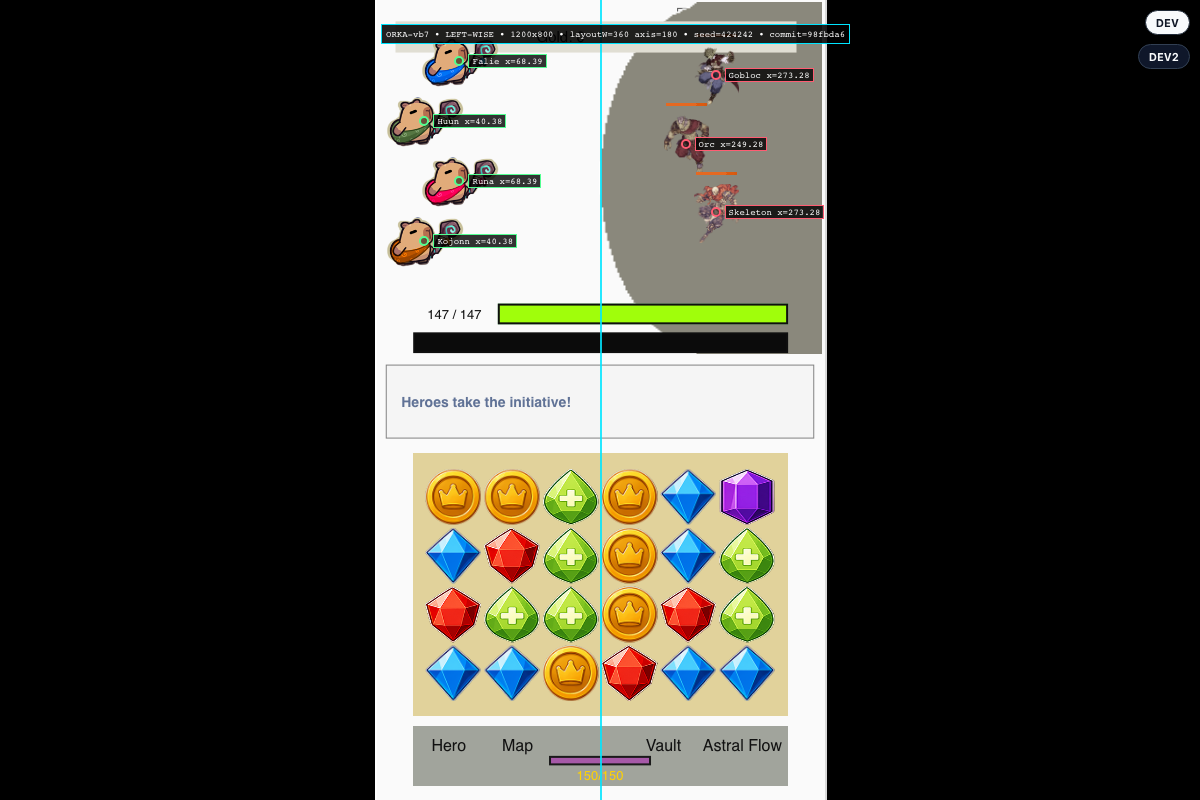
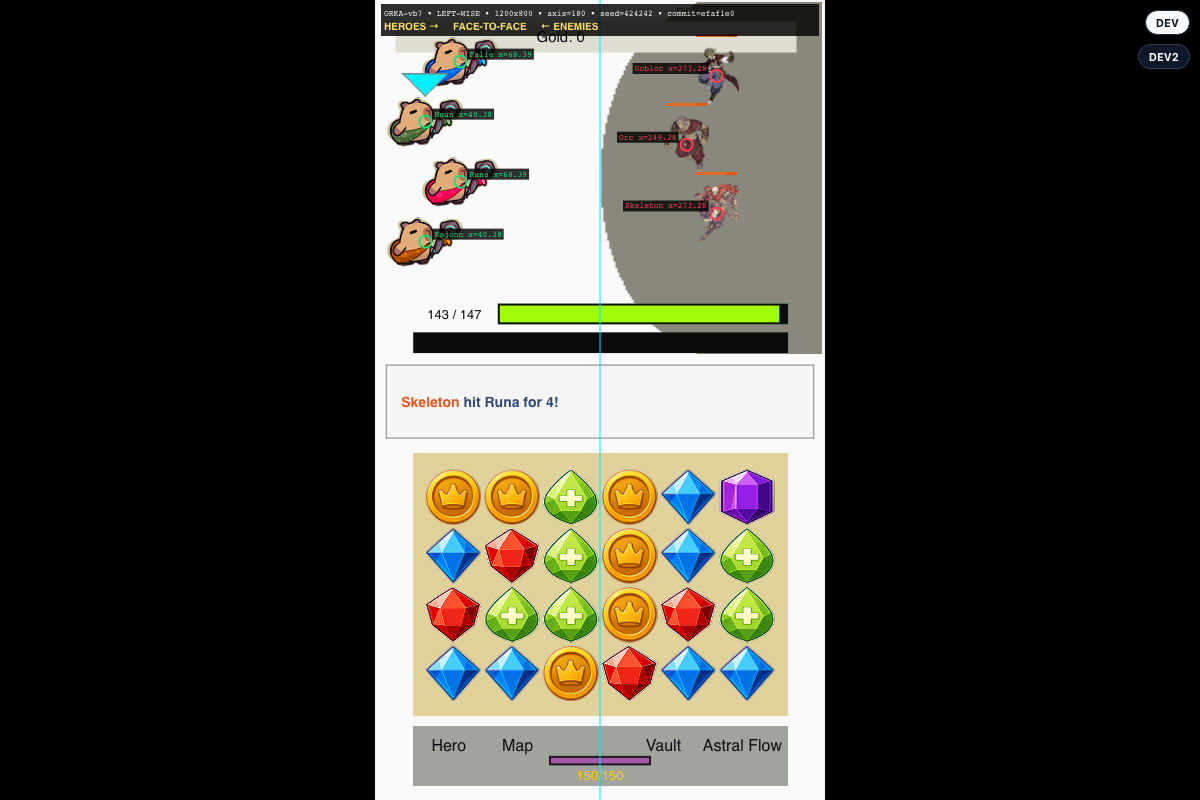
test(qa): refresh face-to-face combat proof
Replace stale back-to-back frames with exact-commit annotated screenshots at both accepted viewports.

Record inward facing, pivot reflection, image hashes, and zero page errors.

bd-ORKA-vb7

diff --git a/governance/qa/ORKA-vb7-combat-orientation/README.md b/governance/qa/ORKA-vb7-combat-orientation/README.md
@@ -1,6 +1,6 @@
 # ORKA-vb7 Combat Orientation Proof
 
-- Runtime commit: `98fbda6454454d6bcfc2760852997bf19c6e59e1`
+- Runtime commit: `efaf1e03688e9d7fafc353c46efaefcb5bb70e42`
 - Branch: `bead/ORKA-vb7-combat-orientation`
 - Seed: `424242`
 - Roster: Falie, Huun, Runa, Kojonn vs Gobloc, Orc, Skeleton
@@ -8,7 +8,9 @@
 - Browser viewports: `1200x800` and `900x700`
 - Browser page errors: none
 
-The cyan line marks the reflection axis. Green rings mark hero standing pivots; red rings mark enemy pivots. Each right-wise x equals `360 - left-wise x`; UID, kind, slot, y, HP, stats, initiative order, and board state remain equal.
+The cyan line marks the reflection axis. Green rings mark hero standing pivots; red rings mark enemy pivots. Yellow arrows annotate inward facing. Each right-wise x equals `360 - left-wise x`; UID, kind, slot, y, HP, stats, initiative order, and board state remain equal.
+
+The original right-wise QA frame exposed a presentation defect: reflected pivots moved directional/asymmetric art without reflecting its pixels, leaving teams back-to-back and silhouettes biased right. Commit `efaf1e0` reflects only right-wise actor pixels about the already-correct oriented pivot, including hit-flash redraws. Source assets, pivots, hit regions, combat state, and rules are unchanged.
 
 ## Images
 
